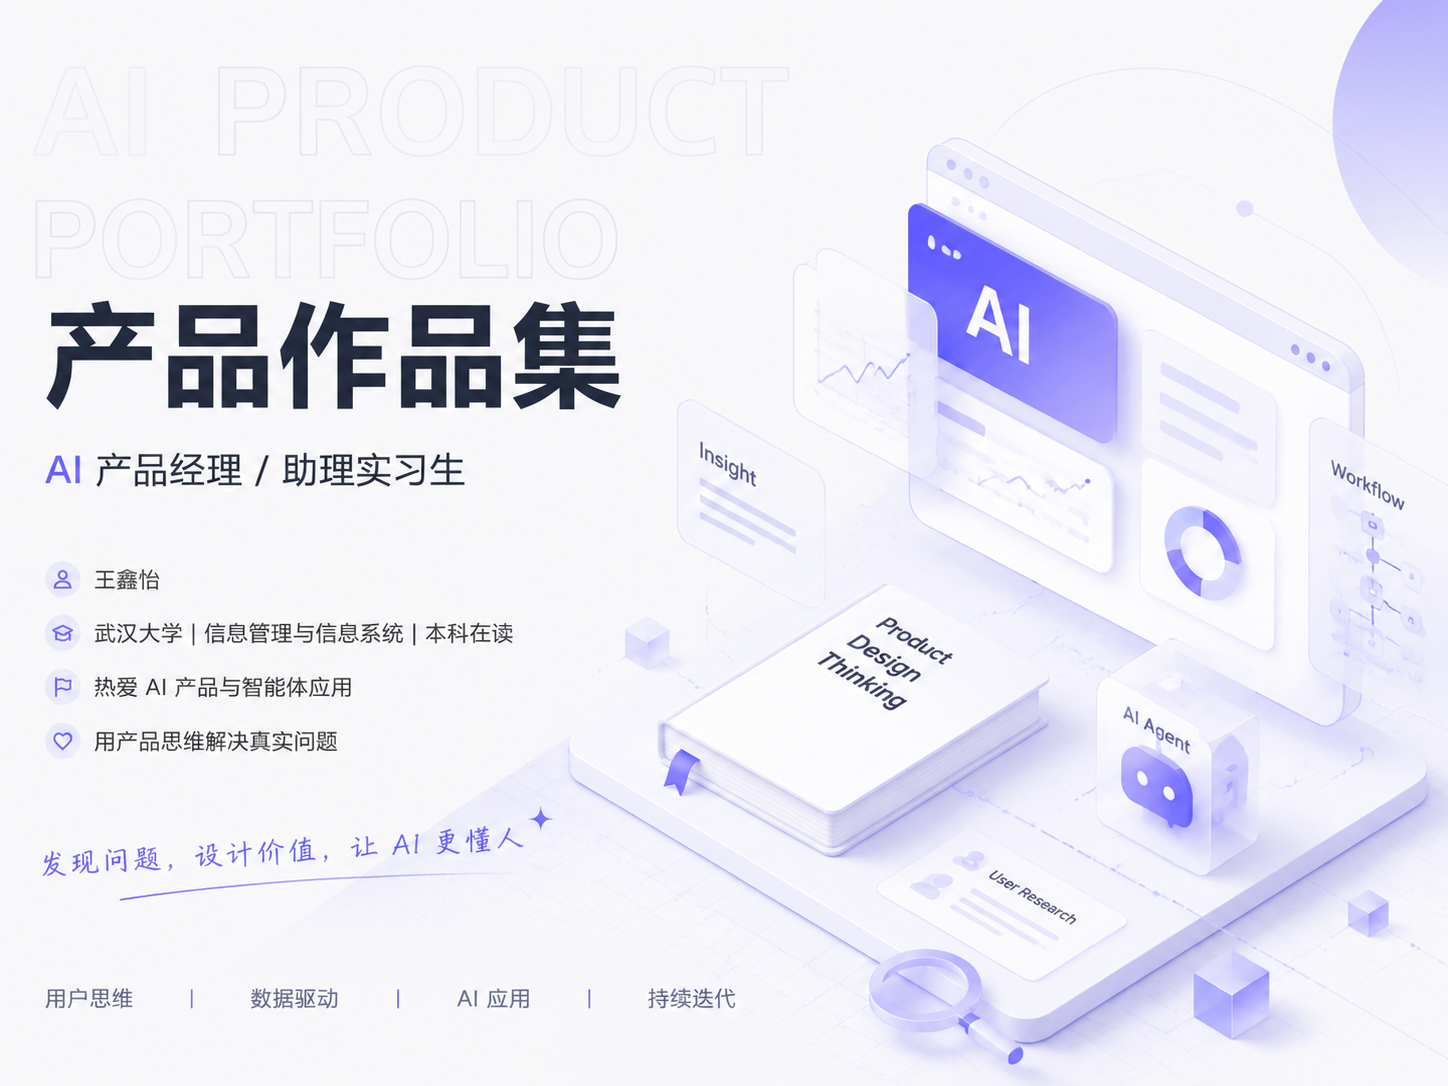
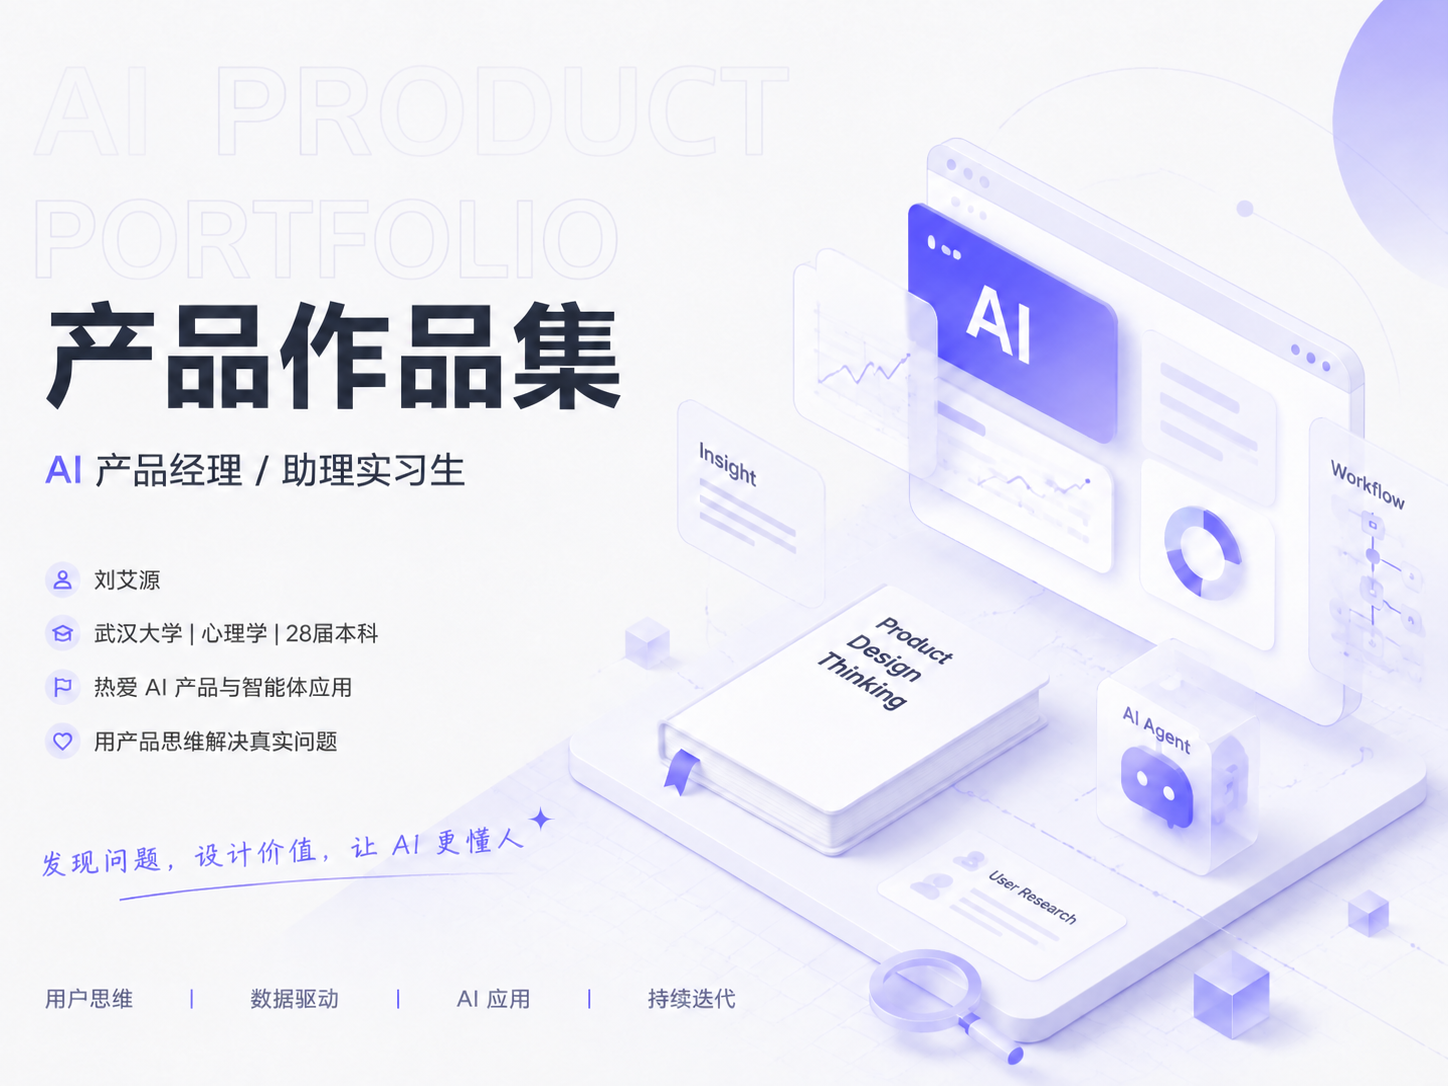
Update portfolio profile and remove about section

diff --git a/index.html b/index.html
@@ -755,7 +755,7 @@ h2 { scroll-margin-top: 24px; }
   figure { max-width: 100%; }
   table { display: block; overflow-x: auto; }
 }
-</style></head><body><article id="7d9df478-c219-4906-9f29-70868dd7af8a" class="page sans"><header><img loading="lazy" decoding="async" class="page-cover-image" src="image%2023.png" style="object-position:center 57.45%"/><div class="page-header-icon page-header-icon-with-cover"><span class="icon">📌</span></div><h1 class="page-title" dir="auto">个人作品集</h1><p class="page-description" dir="auto"></p></header><div class="page-body"><div style="display:contents" dir="ltr"><figure class="block-color-blue_background callout" style="white-space:pre-wrap;display:flex" id="bb57c066-2979-4469-a02f-d6111c043deb"><div style="font-size:1.5em"><span class="icon">✨</span></div><div style="width:100%"><div style="display:contents" dir="auto"><p id="ac2cda20-1490-47e5-89b0-bd37279e0eef" class=""><strong>导航</strong>（点击跳转）</p></div><div style="display:contents" dir="auto"><ul id="b1710beb-0afd-4d79-9723-60cbdb8f6f21" class="bulleted-list"><li style="list-style-type:disc"><a href="#ac309c84-86b2-479d-bd6f-09f03faffb1c">👤 01 关于我</a></li></ul></div><div style="display:contents" dir="auto"><ul id="26ced16c-7895-4533-b3da-6ba19293dbd5" class="bulleted-list"><li style="list-style-type:disc"><a href="#feff224c-ca8a-4d8e-a6ea-1b412527adc6">🚀 02 AI 产品项目</a></li></ul></div><div style="display:contents" dir="auto"><ul id="b3d9ab25-fc47-4631-835e-8db2eca767ae" class="bulleted-list"><li style="list-style-type:disc"><a href="#c2119838-0c9a-49ff-96b9-f59ca821f604">💡 03 产品思考</a></li></ul></div><div style="display:contents" dir="auto"><ul id="34b2e381-464d-4873-9024-1662485c72c4" class="bulleted-list"><li style="list-style-type:disc"><a href="#ee3b2b72-339a-44d0-8a1e-7114614da0ef">🧰 04 AI 工作流与工具实践</a></li></ul></div><div style="display:contents" dir="auto"><ul id="ed14af26-cce1-4f2e-b3ac-968e6456f6ff" class="bulleted-list"><li style="list-style-type:disc"><a href="#19ae60d2-52dc-4f04-ade7-a0cb7dc04467">🧭 05 未来探索方向</a></li></ul></div><div style="display:contents" dir="auto"><ul id="2dfd54c8-917f-4ede-af66-8473baf52361" class="bulleted-list"><li style="list-style-type:disc"><a href="#2e69a4a3-ae34-489f-b3af-b7c59cc46595">📮 06 联系方式</a></li></ul></div></div></figure></div><div style="display:contents" dir="auto"><hr id="1449591f-7252-4cce-85f9-bba05d3f7503"/></div><div style="display:contents" dir="auto"><h2 id="ac309c84-86b2-479d-bd6f-09f03faffb1c" class="">👤 01 关于我</h2></div><div style="display:contents" dir="auto"><ul id="37d2f022-bef9-80d0-8ecd-cab3af63031a" class="bulleted-list"><li style="list-style-type:disc"><strong>一句话介绍</strong>：热爱 AI 产品与智能体应用，擅长将用户研究、创意策划、产品设计与 AI 工具结合，从问题发现到方案落地推动项目持续迭代。</li></ul></div><div style="display:contents" dir="auto"><ul id="37d2f022-bef9-8064-9a3d-d5841de9b3f0" class="bulleted-list"><li style="list-style-type:disc"><strong>关键词</strong>：AI 产品｜智能体｜用户研究｜数据分析｜产品策划</li></ul></div><div style="display:contents" dir="auto"><ul id="37d2f022-bef9-802b-abb7-f4b0cd11bbe1" class="bulleted-list"><li style="list-style-type:disc"><strong>亮点</strong>：<div style="display:contents" dir="auto"><ul id="5da35de8-72dc-4c05-870d-3baaf2ae2dda" class="bulleted-list"><li style="list-style-type:circle"><strong>综合能力</strong>：参与并主导多个跨学科项目，具备项目统筹、团队协作、需求拆解与方案推进能力。</li></ul></div><div style="display:contents" dir="auto"><ul id="81afd51c-80eb-4a7e-b9d8-34ebd3409fc2" class="bulleted-list"><li style="list-style-type:circle"><strong>产品与研究能力</strong>：具备用户研究、竞品分析、数据分析经验，能够从用户需求出发构建产品方案并持续迭代优化。</li></ul></div><div style="display:contents" dir="auto"><ul id="736ad6c5-07db-408b-a2c6-69ec0035053e" class="bulleted-list"><li style="list-style-type:circle"><strong>AI 应用能力</strong>：持续探索 AI 产品与 Agent 应用场景，形成多模型协同工作流，能够结合不同工具优势高效完成调研、策划、开发与知识管理任务。</li></ul></div></li></ul></div><div style="display:contents" dir="auto"><ul id="d74e2825-a77b-4668-a8ef-c3989999b817" class="bulleted-list"><li style="list-style-type:disc"><strong>技能栈（优化版）</strong>：<div style="display:contents" dir="auto"><ul id="ef189c90-6fb5-4f37-a4ab-3e5f9429718b" class="bulleted-list"><li style="list-style-type:circle"><strong>产品设计与管理</strong>：PRD文档撰写｜需求分析｜竞品分析｜原型设计｜项目统筹｜团队协作</li></ul></div><div style="display:contents" dir="auto"><ul id="975d06ef-a35b-4ada-a74c-b53a6eb44e14" class="bulleted-list"><li style="list-style-type:circle"><strong>AI 与智能工具</strong>：ChatGPT｜Claude｜Codex｜Gemini｜Coze｜Cursor｜Trae｜AI 工作流构建</li></ul></div><div style="display:contents" dir="auto"><ul id="098d889d-d94c-4d20-80a9-31bfb4ba8ba3" class="bulleted-list"><li style="list-style-type:circle"><strong>数据分析与研究</strong>：SPSS｜Excel｜数据库｜问卷设计｜数据可视化</li></ul></div><div style="display:contents" dir="auto"><ul id="34f9b64a-2151-4161-9974-89dc706357e9" class="bulleted-list"><li style="list-style-type:circle"><strong>开发与技术基础</strong>：Python｜GitHub｜Vibe Coding｜Agent 原型开发</li></ul></div><div style="display:contents" dir="auto"><ul id="f2ded08c-f6f0-4484-90e7-6b231ecca772" class="bulleted-list"><li style="list-style-type:circle"><strong>协作与展示工具</strong>：WPS | Word | Notion｜Figma｜PPT｜思维导图</li></ul></div></li></ul></div><div style="display:contents" dir="auto"><ul id="3d5850cc-7749-4ae5-a857-fb6c7577f619" class="bulleted-list"><li style="list-style-type:disc"><strong>简历链接</strong>：<div style="display:contents" dir="auto"><ul id="e001ec31-74f5-482a-9a36-c96e4b316003" class="bulleted-list"><li style="list-style-type:circle">简历：<a href="index.html">https://app.notion.com/p/7d9df478c21949069f2970868dd7af8a?source=copy_link#37d2f022bef98027aab0d755be94a5db</a><div style="display:contents" dir="ltr"><figure id="37d2f022-bef9-8027-aab0-d755be94a5db"><div class="source"><a href="%E4%B8%AA%E4%BA%BA%E7%AE%80%E5%8E%86%EF%BC%88%E4%BA%A7%E5%93%81%E6%96%B9%E5%90%91%EF%BC%89.pdf">个人简历（产品方向）.pdf</a></div></figure></div></li></ul></div></li></ul></div><div style="display:contents" dir="auto"><hr id="50049e4d-2264-4301-8a32-18670cf1120c"/></div><div style="display:contents" dir="auto"><h2 id="feff224c-ca8a-4d8e-a6ea-1b412527adc6" class="">🚀 02 AI 产品项目</h2></div><div style="display:contents" dir="auto"><h3 id="f52a48bd-26fd-41c9-b5a1-dd054cc871a3" class="">1. StudyFlow AI（个人项目）</h3></div><div style="display:contents" dir="auto"><ul id="2e7d6736-c727-4585-9a71-676192073fc2" class="bulleted-list"><li style="list-style-type:disc"><strong>问题/挑战</strong>：学生在选题研究和资料整理中“收藏多、沉淀少”，缺乏系统化知识管理与分析能力。</li></ul></div><div style="display:contents" dir="auto"><ul id="60e299e0-c05f-436d-9b87-202bf2ed7c02" class="bulleted-list"><li style="list-style-type:disc"><strong>方法/工具</strong>：独立完成需求分析、竞品调研、PRD 设计、多轮原型迭代；使用 ChatGPT、Codex、Cursor 等 AI 工具进行 Vibe Coding，完成本地网页端 MVP。</li></ul></div><div style="display:contents" dir="auto"><ul id="1e7bb453-a06f-443c-bdc1-95847279df56" class="bulleted-list"><li style="list-style-type:disc"><strong>产出/成果</strong>：<div style="display:contents" dir="auto"><ul id="a32d3ed3-06b4-4c0f-a6d1-f5643889ce92" class="bulleted-list"><li style="list-style-type:circle">AI 收纳工作台 MVP（网页端）</li></ul></div><div style="display:contents" dir="auto"><div id="37d2f022-bef9-80d0-9b0b-f56fbaa3d635" class="column-list"><div style="display:contents" dir="auto"><div id="37d2f022-bef9-80c1-b41e-fccacca471cf" style="width:20%" class="column"><div style="display:contents" dir="ltr"><figure id="9c8877c6-c906-47e1-a3a8-ffe56f8fbad1" class="image"><a href="0%E7%99%BB%E5%BD%95%E9%A1%B5.png"><img loading="lazy" decoding="async" src="0%E7%99%BB%E5%BD%95%E9%A1%B5.png"/></a><figcaption>登录页面</figcaption></figure></div></div></div><div style="display:contents" dir="auto"><div id="37d2f022-bef9-80aa-8332-fc0592f733d4" style="width:20%" class="column"><div style="display:contents" dir="ltr"><figure id="afa4cd3e-c4ec-46b3-8866-30d33941f760" class="image"><a href="image.png"><img loading="lazy" decoding="async" src="image.png"/></a><figcaption>首页</figcaption></figure></div></div></div><div style="display:contents" dir="auto"><div id="37d2f022-bef9-8044-a960-d851a41ca168" style="width:20%" class="column"><div style="display:contents" dir="ltr"><figure id="f9539748-7baf-45ae-9c1a-c2f5e11b132f" class="image"><a href="image%201.png"><img loading="lazy" decoding="async" src="image%201.png"/></a><figcaption>卡片库</figcaption></figure></div></div></div></div></div><div style="display:contents" dir="auto"><div id="deca9711-44fb-461a-b3dd-ebd26a4394d5" class="column-list"><div style="display:contents" dir="auto"><div id="80f531b4-3e9b-4159-863d-317c674954f2" style="width:100%" class="column"><div style="display:contents" dir="ltr"><figure id="14fea2a4-5e9b-412b-a1e6-158972c50a53" class="image"><a href="image%202.png"><img loading="lazy" decoding="async" src="image%202.png"/></a><figcaption>原始资料仓</figcaption></figure></div></div></div><div style="display:contents" dir="auto"><div id="56f261a4-35e8-493a-a75b-c82bff6a1ae1" style="width:100%" class="column"><div style="display:contents" dir="ltr"><figure id="37d2f022-bef9-80af-8df6-e975daea5ea4" class="image"><a href="image%203.png"><img loading="lazy" decoding="async" style="width:2880px" src="image%203.png"/></a><figcaption>项目目录结构</figcaption></figure></div></div></div></div></div><div style="display:contents" dir="auto"><ul id="90d959ce-76e7-4c7e-867b-171dd6ec3d8a" class="bulleted-list"><li style="list-style-type:circle">知识卡片生成和研究主题管理功能</li></ul></div><div style="display:contents" dir="auto"><ul id="a79913f1-86ca-4360-8e0d-2a4d6cab9ddf" class="bulleted-list"><li style="list-style-type:circle">完整 PRD 文档及迭代路线</li></ul></div><div style="display:contents" dir="ltr"><figure id="37d2f022-bef9-808d-8c05-cb6cdff6c09e"><div class="source"><a href="StudyFlow_AI_V1_Demo_PRD.md">StudyFlow_AI_V1_Demo_PRD.md</a></div></figure></div><div style="display:contents" dir="auto"><script src="https://cdnjs.cloudflare.com/ajax/libs/prism/1.29.0/prism.min.js" integrity="sha512-7Z9J3l1+EYfeaPKcGXu3MS/7T+w19WtKQY/n+xzmw4hZhJ9tyYmcUS+4QqAlzhicE5LAfMQSF3iFTK9bQdTxXg==" crossorigin="anonymous" referrerPolicy="no-referrer"></script><link rel="stylesheet" href="https://cdnjs.cloudflare.com/ajax/libs/prism/1.29.0/themes/prism.min.css" integrity="sha512-tN7Ec6zAFaVSG3TpNAKtk4DOHNpSwKHxxrsiw4GHKESGPs5njn/0sMCUMl2svV4wo4BK/rCP7juYz+zx+l6oeQ==" crossorigin="anonymous" referrerPolicy="no-referrer"/><pre id="37d2f022-bef9-8028-823d-e94d66067e2c" class="code code-wrap"><code class="language-mermaid" style="white-space:pre-wrap;word-break:break-all">flowchart LR
+</style></head><body><article id="7d9df478-c219-4906-9f29-70868dd7af8a" class="page sans"><header><img loading="lazy" decoding="async" class="page-cover-image" src="image%2023.png" style="object-position:center 57.45%"/><div class="page-header-icon page-header-icon-with-cover"><span class="icon">📌</span></div><h1 class="page-title" dir="auto">个人作品集</h1><p class="page-description" dir="auto"></p></header><div class="page-body"><div style="display:contents" dir="ltr"><figure class="block-color-blue_background callout" style="white-space:pre-wrap;display:flex" id="bb57c066-2979-4469-a02f-d6111c043deb"><div style="font-size:1.5em"><span class="icon">✨</span></div><div style="width:100%"><div style="display:contents" dir="auto"><p id="ac2cda20-1490-47e5-89b0-bd37279e0eef" class=""><strong>导航</strong>（点击跳转）</p></div><div style="display:contents" dir="auto"></div><div style="display:contents" dir="auto"><ul id="26ced16c-7895-4533-b3da-6ba19293dbd5" class="bulleted-list"><li style="list-style-type:disc"><a href="#feff224c-ca8a-4d8e-a6ea-1b412527adc6">🚀 02 AI 产品项目</a></li></ul></div><div style="display:contents" dir="auto"><ul id="b3d9ab25-fc47-4631-835e-8db2eca767ae" class="bulleted-list"><li style="list-style-type:disc"><a href="#c2119838-0c9a-49ff-96b9-f59ca821f604">💡 03 产品思考</a></li></ul></div><div style="display:contents" dir="auto"><ul id="34b2e381-464d-4873-9024-1662485c72c4" class="bulleted-list"><li style="list-style-type:disc"><a href="#ee3b2b72-339a-44d0-8a1e-7114614da0ef">🧰 04 AI 工作流与工具实践</a></li></ul></div><div style="display:contents" dir="auto"><ul id="ed14af26-cce1-4f2e-b3ac-968e6456f6ff" class="bulleted-list"><li style="list-style-type:disc"><a href="#19ae60d2-52dc-4f04-ade7-a0cb7dc04467">🧭 05 未来探索方向</a></li></ul></div><div style="display:contents" dir="auto"><ul id="2dfd54c8-917f-4ede-af66-8473baf52361" class="bulleted-list"><li style="list-style-type:disc"><a href="#2e69a4a3-ae34-489f-b3af-b7c59cc46595">📮 06 联系方式</a></li></ul></div></div></figure></div><div style="display:contents" dir="auto"><h2 id="feff224c-ca8a-4d8e-a6ea-1b412527adc6" class="">🚀 02 AI 产品项目</h2></div><div style="display:contents" dir="auto"><h3 id="f52a48bd-26fd-41c9-b5a1-dd054cc871a3" class="">1. StudyFlow AI（个人项目）</h3></div><div style="display:contents" dir="auto"><ul id="2e7d6736-c727-4585-9a71-676192073fc2" class="bulleted-list"><li style="list-style-type:disc"><strong>问题/挑战</strong>：学生在选题研究和资料整理中“收藏多、沉淀少”，缺乏系统化知识管理与分析能力。</li></ul></div><div style="display:contents" dir="auto"><ul id="60e299e0-c05f-436d-9b87-202bf2ed7c02" class="bulleted-list"><li style="list-style-type:disc"><strong>方法/工具</strong>：独立完成需求分析、竞品调研、PRD 设计、多轮原型迭代；使用 ChatGPT、Codex、Cursor 等 AI 工具进行 Vibe Coding，完成本地网页端 MVP。</li></ul></div><div style="display:contents" dir="auto"><ul id="1e7bb453-a06f-443c-bdc1-95847279df56" class="bulleted-list"><li style="list-style-type:disc"><strong>产出/成果</strong>：<div style="display:contents" dir="auto"><ul id="a32d3ed3-06b4-4c0f-a6d1-f5643889ce92" class="bulleted-list"><li style="list-style-type:circle">AI 收纳工作台 MVP（网页端）</li></ul></div><div style="display:contents" dir="auto"><div id="37d2f022-bef9-80d0-9b0b-f56fbaa3d635" class="column-list"><div style="display:contents" dir="auto"><div id="37d2f022-bef9-80c1-b41e-fccacca471cf" style="width:20%" class="column"><div style="display:contents" dir="ltr"><figure id="9c8877c6-c906-47e1-a3a8-ffe56f8fbad1" class="image"><a href="0%E7%99%BB%E5%BD%95%E9%A1%B5.png"><img loading="lazy" decoding="async" src="0%E7%99%BB%E5%BD%95%E9%A1%B5.png"/></a><figcaption>登录页面</figcaption></figure></div></div></div><div style="display:contents" dir="auto"><div id="37d2f022-bef9-80aa-8332-fc0592f733d4" style="width:20%" class="column"><div style="display:contents" dir="ltr"><figure id="afa4cd3e-c4ec-46b3-8866-30d33941f760" class="image"><a href="image.png"><img loading="lazy" decoding="async" src="image.png"/></a><figcaption>首页</figcaption></figure></div></div></div><div style="display:contents" dir="auto"><div id="37d2f022-bef9-8044-a960-d851a41ca168" style="width:20%" class="column"><div style="display:contents" dir="ltr"><figure id="f9539748-7baf-45ae-9c1a-c2f5e11b132f" class="image"><a href="image%201.png"><img loading="lazy" decoding="async" src="image%201.png"/></a><figcaption>卡片库</figcaption></figure></div></div></div></div></div><div style="display:contents" dir="auto"><div id="deca9711-44fb-461a-b3dd-ebd26a4394d5" class="column-list"><div style="display:contents" dir="auto"><div id="80f531b4-3e9b-4159-863d-317c674954f2" style="width:100%" class="column"><div style="display:contents" dir="ltr"><figure id="14fea2a4-5e9b-412b-a1e6-158972c50a53" class="image"><a href="image%202.png"><img loading="lazy" decoding="async" src="image%202.png"/></a><figcaption>原始资料仓</figcaption></figure></div></div></div><div style="display:contents" dir="auto"><div id="56f261a4-35e8-493a-a75b-c82bff6a1ae1" style="width:100%" class="column"><div style="display:contents" dir="ltr"><figure id="37d2f022-bef9-80af-8df6-e975daea5ea4" class="image"><a href="image%203.png"><img loading="lazy" decoding="async" style="width:2880px" src="image%203.png"/></a><figcaption>项目目录结构</figcaption></figure></div></div></div></div></div><div style="display:contents" dir="auto"><ul id="90d959ce-76e7-4c7e-867b-171dd6ec3d8a" class="bulleted-list"><li style="list-style-type:circle">知识卡片生成和研究主题管理功能</li></ul></div><div style="display:contents" dir="auto"><ul id="a79913f1-86ca-4360-8e0d-2a4d6cab9ddf" class="bulleted-list"><li style="list-style-type:circle">完整 PRD 文档及迭代路线</li></ul></div><div style="display:contents" dir="ltr"><figure id="37d2f022-bef9-808d-8c05-cb6cdff6c09e"><div class="source"><a href="StudyFlow_AI_V1_Demo_PRD.md">StudyFlow_AI_V1_Demo_PRD.md</a></div></figure></div><div style="display:contents" dir="auto"><script src="https://cdnjs.cloudflare.com/ajax/libs/prism/1.29.0/prism.min.js" integrity="sha512-7Z9J3l1+EYfeaPKcGXu3MS/7T+w19WtKQY/n+xzmw4hZhJ9tyYmcUS+4QqAlzhicE5LAfMQSF3iFTK9bQdTxXg==" crossorigin="anonymous" referrerPolicy="no-referrer"></script><link rel="stylesheet" href="https://cdnjs.cloudflare.com/ajax/libs/prism/1.29.0/themes/prism.min.css" integrity="sha512-tN7Ec6zAFaVSG3TpNAKtk4DOHNpSwKHxxrsiw4GHKESGPs5njn/0sMCUMl2svV4wo4BK/rCP7juYz+zx+l6oeQ==" crossorigin="anonymous" referrerPolicy="no-referrer"/><pre id="37d2f022-bef9-8028-823d-e94d66067e2c" class="code code-wrap"><code class="language-mermaid" style="white-space:pre-wrap;word-break:break-all">flowchart LR
   A[&quot;MVP&lt;br/&gt;基础原型&quot;] --&gt; B[&quot;v0.2&lt;br/&gt;输入流程&quot;]
   B --&gt; C[&quot;v0.3.x&lt;br/&gt;研究面板&quot;]
   C --&gt; D[&quot;v0.4&lt;br/&gt;卡片增强&quot;]
